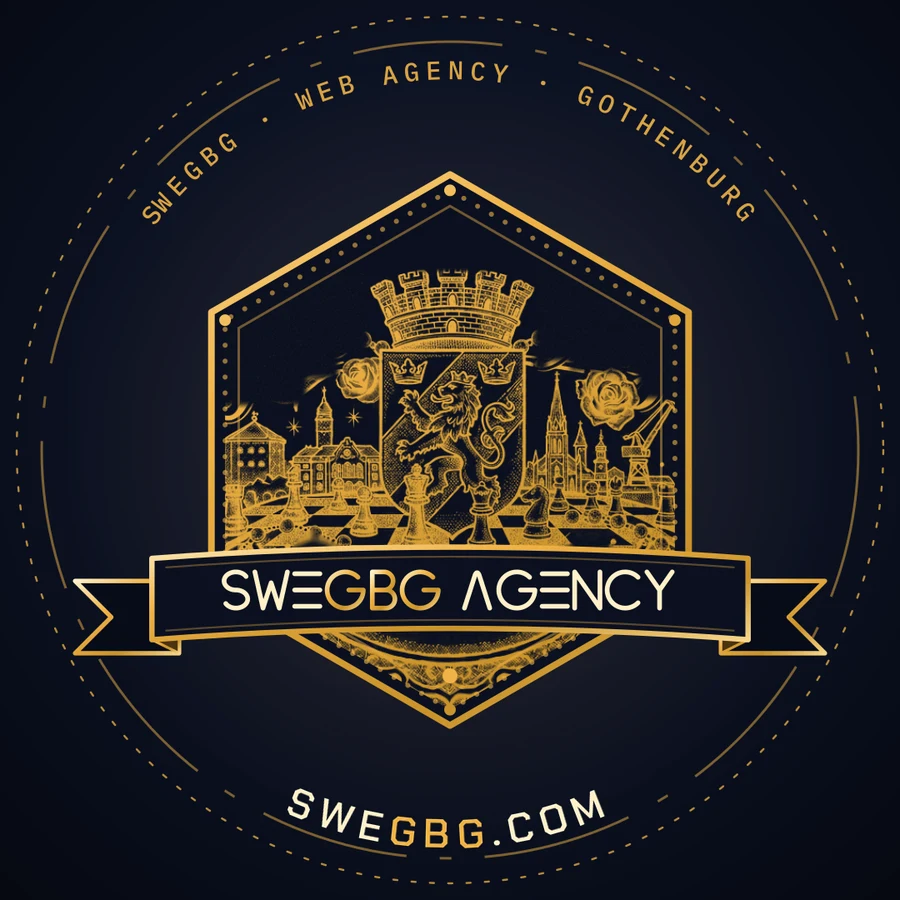
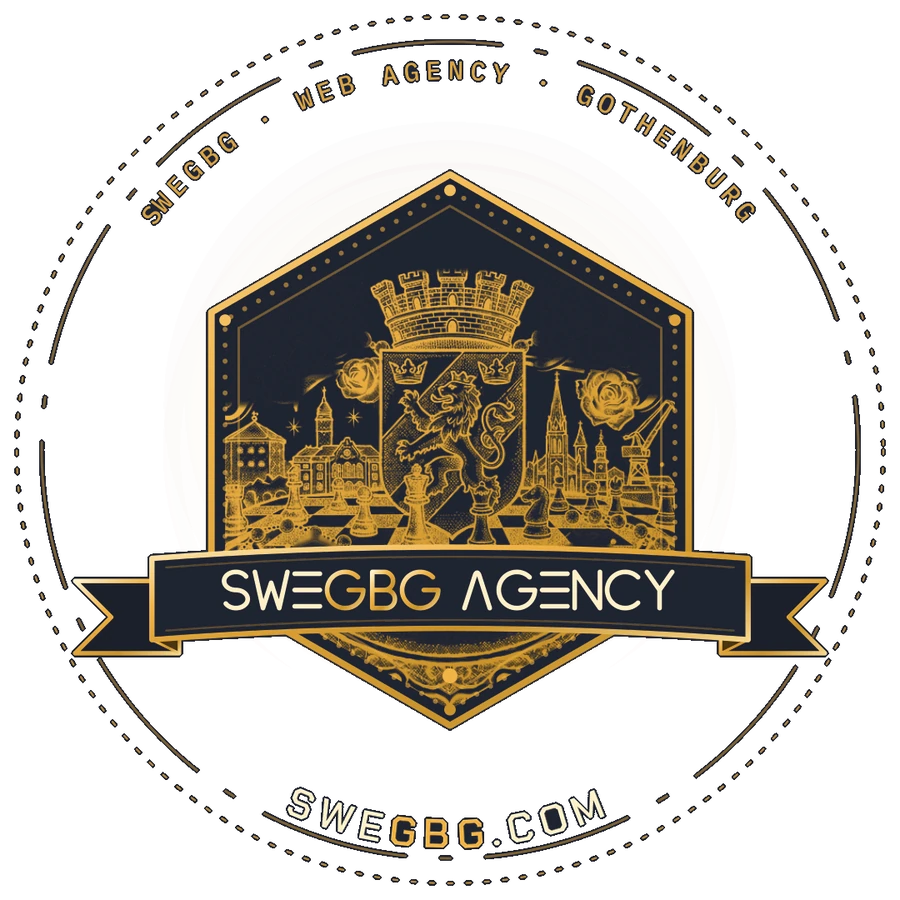
Hero: loggan transparent som gamla emblemet, tydligare animation
Bakgrunden borttagen så loggan ligger som guld på himlen (samma storlek som förut).
Ritas upp i två steg (krona/sköld/banderoll från mitten, sedan ringen medsols), ljuspunkt
med lång svans runt ytterringen, glans över guldet och egen glimt på banderollen.

Claude-Session: https://claude.ai/code/session_01DvfAb9YRMugB62N47P9hxV

diff --git a/src/styles/hero.css b/src/styles/hero.css
@@ -377,23 +377,43 @@ h1 .gl:hover::after { opacity: .7; animation: glitch2 .3s steps(2) infinite; }
   .lab-m { display: flex; width: max-content; margin: .9rem auto 0; animation: rise 1.2s 1.3s cubic-bezier(.2, .8, .2, 1) both; }
 }
 
-/* ---------- Round logo badge (HeroBadge): medal that materializes, with an orbiting light dot ---------- */
-.hb-float { position: absolute; inset: 0; animation: hbfloat 8s 3.2s ease-in-out infinite; }
+/* ---------- Round logo badge (HeroBadge): gold on the sky, draws itself in, orbiting light, glints ---------- */
+@property --hbr { syntax: "<percentage>"; inherits: false; initial-value: 0%; }
+@property --hba { syntax: "<angle>"; inherits: false; initial-value: 0deg; }
+.hb-float { position: absolute; inset: 0; animation: hbfloat 8s 4s ease-in-out infinite; }
 @keyframes hbfloat { 0%, 100% { transform: translateY(0); } 50% { transform: translateY(-5px); } }
-.hb { position: absolute; inset: 0; border-radius: 50%; overflow: hidden; background: #070b15;
-  box-shadow: 0 0 0 1px rgba(240, 179, 71, .28), 0 0 42px rgba(240, 179, 71, .28), 0 14px 50px rgba(0, 0, 0, .55);
-  animation: hxmat 2.4s .5s cubic-bezier(.22, 1, .36, 1) both; }
-.hb-img { display: block; width: 100%; height: 100%; object-fit: cover; }
-/* a thin light dot that circles the outer ring of the logo */
+.hb { position: absolute; inset: 0; filter: drop-shadow(0 0 18px rgba(240, 179, 71, .35)); animation: hbin 1.9s .4s cubic-bezier(.22, 1, .36, 1) both; }
+@keyframes hbin {
+  0% { opacity: 0; transform: scale(1.06); filter: blur(10px) brightness(2.4) drop-shadow(0 0 18px rgba(240, 179, 71, .35)); }
+  35% { opacity: 1; }
+  100% { opacity: 1; transform: none; filter: blur(0) brightness(1) drop-shadow(0 0 18px rgba(240, 179, 71, .35)); }
+}
+/* the logo is revealed in two stages: the crest, shield and banner grow out from the middle,
+   then the ring and its text are drawn clockwise from the top */
+.hb-img { display: block; width: 100%; height: 100%;
+  -webkit-mask-image: radial-gradient(circle closest-side, #000 calc(var(--hbr) - 10%), transparent var(--hbr)), conic-gradient(from 0deg, #000 var(--hba), transparent calc(var(--hba) + 5deg));
+  mask-image: radial-gradient(circle closest-side, #000 calc(var(--hbr) - 10%), transparent var(--hbr)), conic-gradient(from 0deg, #000 var(--hba), transparent calc(var(--hba) + 5deg));
+  animation: hbdraw 3.6s .5s cubic-bezier(.45, 0, .25, 1) both; }
+@keyframes hbdraw {
+  0% { --hbr: 0%; --hba: 0deg; }
+  42% { --hbr: 80%; --hba: 0deg; }
+  100% { --hbr: 80%; --hba: 365deg; }
+}
+/* a light that circles the outer ring, with a long tail */
 .hb-orbit { position: absolute; inset: 0; border-radius: 50%;
-  background: conic-gradient(from 0deg, transparent 0 86%, rgba(255, 226, 163, .1) 90%, rgba(255, 240, 200, .95) 99.4%, transparent 100%);
+  background: conic-gradient(from 0deg, transparent 0 66%, rgba(255, 226, 163, .12) 78%, rgba(255, 240, 200, 1) 99.4%, transparent 100%);
   -webkit-mask: radial-gradient(circle closest-side, transparent 89.2%, #000 90%, #000 92%, transparent 92.8%);
   mask: radial-gradient(circle closest-side, transparent 89.2%, #000 90%, #000 92%, transparent 92.8%);
-  opacity: 0; animation: hbfade 1.2s 3s ease-out forwards, hxspin 14s 3s linear infinite; }
-@keyframes hbfade { to { opacity: .95; } }
-/* gloss that crosses the disc now and then */
-.hb-sheen { position: absolute; inset: 0; border-radius: 50%; mix-blend-mode: screen; pointer-events: none;
-  background: linear-gradient(105deg, transparent 38%, rgba(255, 244, 214, .22) 48%, transparent 58%) 0 0 / 300% 100%;
-  animation: hxgloss 8s 4s ease-in-out infinite; }
-@media (max-width: 760px), (pointer: coarse) { .hb-sheen { display: none; } .hb { box-shadow: 0 0 0 1px rgba(240, 179, 71, .28), 0 0 26px rgba(240, 179, 71, .22); } }
-@media (prefers-reduced-motion: reduce) { .hb-float, .hb-orbit, .hb-sheen { animation: none; } .hb-orbit { opacity: .9; } }
+  opacity: 0; animation: hbfade 1s 4.1s ease-out forwards, hxspin 12s 4.1s linear infinite; }
+@keyframes hbfade { to { opacity: 1; } }
+/* glints only on the gold of the logo: one across the whole badge, one just on the banner */
+.hb-sheen, .hb-glint { position: absolute; inset: 0; pointer-events: none; mix-blend-mode: screen;
+  -webkit-mask: url(/img/swegbg-badge.webp) center / 100% 100% no-repeat; mask: url(/img/swegbg-badge.webp) center / 100% 100% no-repeat; }
+.hb-sheen { background: linear-gradient(105deg, transparent 38%, rgba(255, 244, 214, .5) 48%, transparent 58%) 0 0 / 300% 100%; animation: hxgloss 8s 4.6s ease-in-out infinite; }
+.hb-glint { clip-path: inset(60% 7% 26% 7%); background: linear-gradient(100deg, transparent 40%, rgba(255, 250, 230, .95) 50%, transparent 60%) 0 0 / 260% 100% no-repeat; animation: hbglint 6s 6s ease-in-out infinite; }
+@keyframes hbglint { 0% { background-position: 125% 0; } 22%, 100% { background-position: -125% 0; } }
+@media (max-width: 760px), (pointer: coarse) { .hb-sheen { display: none; } .hb { filter: none; } }
+@media (prefers-reduced-motion: reduce) {
+  .hb-float, .hb-orbit, .hb-sheen, .hb-glint { animation: none; } .hb-orbit { opacity: .9; } .hb-glint { display: none; }
+  .hb-img { animation: none; -webkit-mask-image: none; mask-image: none; }
+}

diff --git a/src/components/HeroBadge.tsx b/src/components/HeroBadge.tsx
@@ -1,8 +1,9 @@
 /*
   SweGBG badge for the hero (replaces the SVG emblem, which is still in HeroEmblem.tsx if we want it back):
-  the round logo as a gilded medal. It materializes out of gold dust (blurred and overexposed -> sharp),
-  then a light dot orbits the outer ring, a gloss crosses the disc now and then, sparks twinkle around it
-  and the whole badge floats very slightly. Wrapper classes (.hx, .hx-halo, .hx-dust, .hx-sparks, .hx-cap)
+  the round logo, gold on transparent so it sits in the sky like the old emblem. It materializes out of gold dust (blurred and overexposed -> sharp),
+  drawn in two stages (crest and banner grow from the middle, then the ring is drawn clockwise). Then a light
+  circles the outer ring, a gloss crosses the gold now and then, the banner gets its own glint, sparks twinkle
+  around it and the whole badge floats very slightly. Wrapper classes (.hx, .hx-halo, .hx-dust, .hx-sparks, .hx-cap)
   are shared with HeroEmblem so position and size still come from --sx, --sy and --sd.
 */
 function rng(seed: number) {
@@ -34,6 +35,7 @@ export default function HeroBadge({ children }: { children?: React.ReactNode }) 
           <img className="hb-img" src="/img/swegbg-badge.webp" alt="SweGBG Agency" width={900} height={900} decoding="async" fetchPriority="high" />
           <span className="hb-orbit" aria-hidden="true" />
           <span className="hb-sheen" aria-hidden="true" />
+          <span className="hb-glint" aria-hidden="true" />
         </div>
       </div>
       <div className="hx-sparks" aria-hidden="true">
